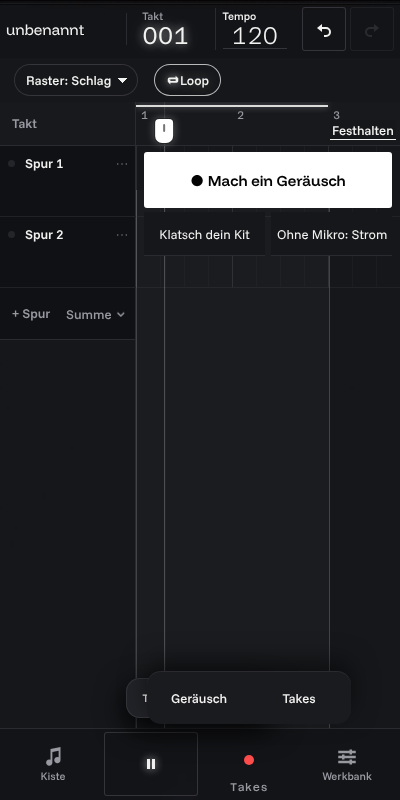
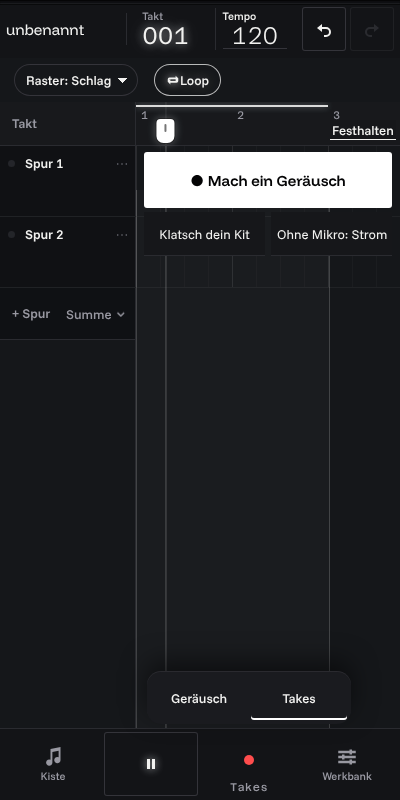
Krachwerk 3b: CD-Auflagen (Takes als Gruppe in der Kiste, Voreinstellung in Weißglut, 3/3 am Clip als Schalter am Handy, Zählen 4·3·2·1 vor dem Sprung)
Claude-Session: https://claude.ai/code/session_011dt3cfyoFbmfWywTqCQhnG

Changed region(s): [[0.39, 0.3125, 0.42, 0.8125], [0.39, 0.1562, 0.45, 0.1875]]

diff --git a/src/ui/library.js b/src/ui/library.js
@@ -176,12 +176,22 @@ export function mountLibrary({ root, library, store, engine, ui, arranger, onDel
     }
   }
 
-  function makeItem(s, cat = s.category) {
+  // Takes eines Clips (Krachwerk 3b): sampleId → { clip, index }; nur in Editionen mit Herkunftsgruppen
+  const takeShut = new Set(); // zugeklappte Take-Gruppen (Standard: offen)
+  function takeMap() {
+    const m = new Map();
+    if (!groupBy) return m;
+    for (const t of store.project.tracks) for (const c of t.clips) if (c.takes?.length > 1) c.takes.forEach((id, index) => { if (!m.has(id)) m.set(id, { clip: c, index }); });
+    return m;
+  }
+  const takeSig = () => JSON.stringify([...takeMap()].map(([id, v]) => [id, v.clip.id, v.index]));
+
+  function makeItem(s, cat = s.category, label = null) {
     const row = el('div', `loop-row cat-${cat}`);
     const item = el('button', 'loop-item');
     item.type = 'button';
     item.dataset.sampleId = s.id;
-    item.append(el('span', 'loop-play'), el('span', 'loop-name', s.name), el('span', 'loop-len', lengthLabel(s, !!groupBy)));
+    item.append(el('span', 'loop-play'), el('span', 'loop-name', label ?? s.name), el('span', 'loop-len', lengthLabel(s, !!groupBy)));
     item.title = describe(s);
     bindItem(item, s);
     const star = el('button', 'loop-fav', '★');
@@ -309,7 +319,42 @@ export function mountLibrary({ root, library, store, engine, ui, arranger, onDel
       if (split) samples.sort((a, b) => order[section(a)] - order[section(b)]);
       let lastSection = null;
       const doneGroups = new Set();
+      const takesOf = takeMap();
       for (const s of samples) {
+        const tk = takesOf.get(s.id);
+        if (tk) {
+          const key = `take:${tk.clip.id}`;
+          if (doneGroups.has(key)) continue;
+          doneGroups.add(key);
+          const kids = tk.clip.takes.map((id) => samples.find((x) => x.id === id)).filter(Boolean);
+          const isOpen = !takeShut.has(key) || forced;
+          const bars = tk.clip.lengthBeats / 4;
+          const len = Number.isInteger(bars) && bars >= 1 ? `${bars} ${bars === 1 ? 'Takt' : 'Takte'}` : `${tk.clip.lengthBeats} Schläge`;
+          const gr = el('div', `loop-row cat-${cat.cat} variant loop-group take-group`);
+          const gb = el('button', 'loop-group-btn');
+          gb.type = 'button';
+          gb.dataset.group = key;
+          gb.setAttribute('aria-expanded', String(isOpen));
+          gb.append(el('span', 'loop-name', `${s.name.replace(/ · Take \d+$/, '')} · ${kids.length} Takes`), el('span', 'loop-len', len), el('span', 'shelf-chevron'));
+          gb.addEventListener('click', () => { if (takeShut.has(key)) takeShut.delete(key); else takeShut.add(key); render(); });
+          gr.append(gb);
+          list.append(gr);
+          if (!isOpen) continue;
+          for (const k of kids) {
+            const made = makeItem(k, cat.cat, `Take ${tk.clip.takes.indexOf(k.id) + 1}`);
+            made.row.classList.add('variant', 'group-kid');
+            made.row.dataset.takeClip = tk.clip.id;
+            made.row.dataset.takeIndex = String(tk.clip.takes.indexOf(k.id));
+            if (!items.has(k.id)) items.set(k.id, []);
+            items.get(k.id).push(made.row);
+            const fav = favs.has(k.id);
+            made.star.classList.toggle('on', fav);
+            made.star.setAttribute('aria-pressed', String(fav));
+            made.star.setAttribute('aria-label', `${k.name} als Favorit ${fav ? 'entfernen' : 'markieren'}`);
+            list.append(made.row);
+          }
+          continue;
+        }
         if (groupBy && s.group && s.parentId) {
           if (doneGroups.has(s.group)) continue;
           doneGroups.add(s.group);
@@ -512,11 +557,16 @@ export function mountLibrary({ root, library, store, engine, ui, arranger, onDel
         item.classList.toggle('armed', ui.armedSampleId === id);
         item.classList.toggle('previewing', engine.preview?.sampleId === id);
         item.setAttribute('aria-pressed', String(ui.armedSampleId === id));
+        if (row.dataset.takeClip) item.classList.toggle('take-on', store.findClip(row.dataset.takeClip)?.clip.take === Number(row.dataset.takeIndex));
       }
     }
   }
   ui.on(sync);
   engine.on(sync);
+  if (groupBy) {
+    let lastTakes = takeSig();
+    store.on(() => { const t = takeSig(); if (t !== lastTakes) { lastTakes = t; render(); } else sync(); });
+  }
   // Kits, Instrumente und die Vorlage ändern sich im Store, nicht in der Bibliothek: nur bei geänderter Liste neu aufbauen
   if (objects) {
     const patClips = () => store.project.tracks.reduce((n, t) => n + t.clips.filter((c) => /^pat-/.test(c.sampleId)).length, 0);

diff --git a/index.html b/index.html
@@ -3167,6 +3167,17 @@
   #app[data-density="calm"] .loop-group-btn .loop-name { flex: 1 1 0; min-width: 0; }
   #app[data-density="calm"] .loop-group-btn[aria-expanded="false"] .shelf-chevron { transform: rotate(-45deg); margin-bottom: 0; }
   #app[data-density="calm"] .loop-row.group-kid { padding-left: 24px; }
+  /* „3/3“ am Take-Clip: rechts oben am Clip; Handy: Schalter für den nächsten Take mit Tippfläche 44 × 44 px */
+  .clip-take { position: absolute; z-index: 2; top: 0; right: 6px; height: 17px; display: flex; align-items: center; pointer-events: none; }
+  .clip-take .clip-tag { margin: 0; font-variant-numeric: tabular-nums; }
+  .clip:has(> .clip-take) .clip-label { padding-right: 40px; }
+  .arr-grid.ch-low .clip-take, .arr-grid.ch-tiny .clip-take { display: none; }
+  @media (max-width: 760px) {
+    #app[data-density="calm"] .clip-take { top: 0; right: 22px; width: 44px; height: 44px; align-items: flex-start; justify-content: flex-end; padding: 1px 4px 0 0; box-sizing: border-box; pointer-events: auto; cursor: pointer; }
+    #app[data-density="calm"] .clip:has(> .clip-take) .clip-label { padding-right: 70px; }
+  }
+  #app[data-density="calm"] .take-group .loop-len { margin-left: auto; }
+  #app[data-density="calm"] .loop-item.take-on { color: var(--amber); box-shadow: inset 2px 0 0 var(--amber); }
   #app[data-density="calm"] .loop-row.group-kid .loop-len { display: none; } /* alle Schnitte sind Einzelklang */
   #app[data-density="calm"] .wb-panel { display: grid; gap: 10px; }
   #app[data-density="calm"] .wb-grund, #app[data-density="calm"] .wb-fine { display: grid; gap: 10px; }
@@ -3339,6 +3350,9 @@
   #app[data-density="calm"] #rec-btn.rec-wait .rec-ctx { color: var(--meter-hot); }
   .rec-ctxrow { position: fixed; z-index: 90; display: flex; gap: 4px; padding: 4px; border-radius: var(--radius-lg); background: var(--sheet-bg); box-shadow: var(--sheet-shadow); }
   .rec-ctxrow[hidden] { display: none; }
+  #app[data-density="calm"] .rec-ctx[data-count] { font-size: var(--fs-15); font-weight: 600; bottom: 4px; letter-spacing: 0; }
+  .rec-ctx-open .hint { display: none; }
+  .rec-ctxrow .rec-ctx-opt.rec-ctx-def { box-shadow: inset 0 -2px 0 var(--amber); }
   .rec-ctxrow .rec-ctx-opt { min-width: 96px; height: 44px; padding: 0 14px; border: 0; border-radius: var(--radius); background: transparent; color: var(--ink); box-shadow: none; cursor: pointer; }
   .rec-ctxrow .rec-ctx-opt:hover:not(:disabled) { background: var(--deck-2); }
   .rec-ctxrow .rec-ctx-opt:disabled { color: var(--muted); opacity: 0.5; cursor: default; }
@@ -3552,7 +3566,6 @@
   .clipbar-btns.with-take { grid-template-columns: repeat(6, minmax(0, 1fr)); }
   .cb-short, .clipbar-btns.with-take .cb-long { display: none; }
   .clipbar-btns.with-take .cb-short { display: inline; }
-  .clip-tag.clip-take { font-variant-numeric: tabular-nums; }
   /* Finger (Tablet): volle 44 px Tippfläche */
   @media (min-width: 761px) and (hover: none) and (pointer: coarse) { .deck .key.rec-more { width: 44px; min-width: 44px; } .rec-wrap { margin-left: 0; } }
   @media (max-width: 760px) {

diff --git a/src/ui/arranger.js b/src/ui/arranger.js
@@ -6,6 +6,7 @@ import { clamp, el, trackPointer } from '../util.js';
 import { AUTO_PARAMS, laneOf } from '../automation.js';
 import { makeKnob } from './knob.js';
 import { touch } from './place.js';
+import { stepTake } from './take-row.js';
 import { lsKey } from '../edition.js';
 import { holdArea, pressHold } from './touch.js';
 import { mountKeyRow } from './key-row.js';
@@ -704,7 +705,13 @@ export function mountArranger({ root, store, engine, library, ui, grainWave = fa
     if (cutName) label.title = sample.name;
     if (sample?.patternId) label.append(el('span', 'clip-tag', 'Pattern'));
     // Take-Clip (2.13): aktiver Take / Anzahl, nur Anzeige
-    if (clip.takes?.length > 1) { const t = el('span', 'clip-tag clip-take', `${clip.take + 1}/${clip.takes.length}`); t.title = `Take ${clip.take + 1} von ${clip.takes.length} (Alt+↑/↓)`; label.append(t); }
+    // Das Kennzeichen sitzt am Clip, nicht im Namen (Handy: Schalter mit 44-px-Tippfläche, siehe CSS)
+    let takeTag = null;
+    if (clip.takes?.length > 1) {
+      takeTag = el('span', 'clip-take');
+      takeTag.append(el('span', 'clip-tag', `${clip.take + 1}/${clip.takes.length}`));
+      takeTag.title = `Take ${clip.take + 1} von ${clip.takes.length} (Alt+↑/↓)`;
+    }
     if (clipGain(clip) > 1.001) label.append(el('span', 'clip-tag', formatDb(clipGain(clip))));
     // Geschwindigkeit wie im Inspektor (100 % = Original); „wie Tonband“ mit Zusatz
     if (clip.stretch && Math.abs(clip.stretch - 1) > 1e-6) {
@@ -730,6 +737,7 @@ export function mountArranger({ root, store, engine, library, ui, grainWave = fa
     const curveOut = el('div', 'clip-grip clip-curve clip-curve-out');
     curveOut.title = 'Kurve des Fade-Outs: hoch = lange laut, runter = früh leise; Doppelklick = linear';
     node.append(canvas, label, trim, handle, curveIn, curveOut, fadeIn, fadeOut, vol);
+    if (takeTag) node.append(takeTag);
     return { node, canvas, sample };
   }
 
@@ -1167,6 +1175,19 @@ export function mountArranger({ root, store, engine, library, ui, grainWave = fa
         if (created.length) select(created[0]);
         done.onDone?.(created.length > 0);
       } else done.onDone?.(false);
+      return;
+    }
+    // Handy: das Kennzeichen „3/3“ am Take-Clip ist der Schalter für den nächsten Take (Tippfläche 44 px, siehe CSS)
+    if (clip && narrow.matches && t.closest('.clip-take')) {
+      e.preventDefault();
+      e.stopPropagation();
+      const cid = clip.dataset.clipId;
+      const x0 = e.clientX, y0 = e.clientY;
+      trackPointer(e, () => {}, (m) => {
+        if (Math.hypot(m.clientX - x0, m.clientY - y0) > 10) return;
+        if (!ui.selectedIds().includes(cid)) select(cid);
+        stepTake(store, library, cid, 1);
+      });
       return;
     }
     if (clip) {

diff --git a/src/ui/rec-context.js b/src/ui/rec-context.js
@@ -34,21 +34,41 @@ export function mountRecContext({ btn, recorder, engine, store, ui, record }) {
 
   const loopOn = () => { const l = store.project.loop; return l.on && l.endBeat > l.startBeat; };
 
+  // Zählen im letzten Takt vor dem ersten Loop-Sprung: „4 · 3 · 2 · 1“ aus der hörbaren Position (kein Ton, nichts geplant)
+  let raf = 0;
+  function countdown() {
+    const l = store.project.loop;
+    if (!engine.playing || !l.on) return null;
+    const left = l.endBeat - engine.heardBeat();
+    return left > 0 && left <= 4 ? String(Math.ceil(left - 1e-9)) : null;
+  }
+  const tick = () => { if (!raf) raf = requestAnimationFrame(() => { raf = 0; if (recorder.waiting) sync(); }); };
+
   function sync() {
     const waiting = recorder.waiting;
     const busy = recorder.state !== 'idle';
     const ctx = record.context();
     const t = waiting ? 'wartet …' : ctx === 'takes' ? 'Takes' : 'Geräusch';
-    if (text.textContent !== t) {
-      text.textContent = t;
+    const shown = waiting ? countdown() ?? t : t;
+    if (text.textContent !== shown) text.textContent = shown;
+    text.toggleAttribute('data-count', waiting && shown !== t);
+    if (btn.dataset.recLabel !== t) {
+      btn.dataset.recLabel = t;
       btn.setAttribute('aria-label', `Aufnahme – ${t}`);
     }
+    if (waiting) tick(); // die Zahl wechselt zwischen den Ereignissen: je Bild nachsehen
     text.dataset.ctx = ctx;
     btn.classList.toggle('rec-wait', waiting);
     btn.setAttribute('aria-haspopup', 'true');
     const lo = loopOn();
     bTakes.disabled = !lo;
     bTakes.title = lo ? 'Jeder Durchgang im Loop wird ein Take' : 'Dafür den Loop-Bereich einschalten';
+    // Voreinstellung: was ● ohne Wahl nähme, trägt die Linie
+    const preset = ctx === 'takes' && lo ? bTakes : bSound;
+    bTakes.classList.toggle('rec-ctx-def', preset === bTakes);
+    bSound.classList.toggle('rec-ctx-def', preset === bSound);
+    bTakes.setAttribute('aria-description', preset === bTakes ? 'Das nimmt ● ohne Wahl' : '');
+    bSound.setAttribute('aria-description', preset === bSound ? 'Das nimmt ● ohne Wahl' : '');
     if (busy && !row.hidden) close(false);
   }
 
@@ -68,12 +88,14 @@ export function mountRecContext({ btn, recorder, engine, store, ui, record }) {
     if (recorder.state !== 'idle') return;
     sync();
     row.hidden = false;
+    app.classList.add('rec-ctx-open'); // der Einblender weicht, solange die Zeile offen ist
     place();
     (byKey ? (bTakes.disabled ? bSound : bTakes) : null)?.focus();
   }
   function close(refocus = true) {
     if (row.hidden) return;
     row.hidden = true;
+    app.classList.remove('rec-ctx-open');
     if (refocus && row.contains(document.activeElement)) btn.focus();
   }
 

diff --git a/src/ui/clip-float.js b/src/ui/clip-float.js
@@ -53,7 +53,7 @@ export function mountClipFloat({ store, ui, tools, library, onFreeze = null }) {
     if (fzBtn) { fzBtn.hidden = !many; dupBtn.hidden = many; }
     wbBtn.hidden = !narrow.matches;
     const tc = store.findClip(id)?.clip;
-    takeBtn.hidden = many || !tc?.takes || !library;
+    takeBtn.hidden = many || !tc?.takes || !library || narrow.matches; // Handy: Schalter ist das „3/3“ am Clip
     if (!takeBtn.hidden) takeBtn.textContent = `Take ${tc.take + 1}/${tc.takes.length}`;
     const w = wrap.getBoundingClientRect();
     const c = node.getBoundingClientRect();
@@ -67,8 +67,7 @@ export function mountClipFloat({ store, ui, tools, library, onFreeze = null }) {
     if (outside || y + bh > w.bottom - 2) { bar.hidden = true; return; }
     // Nur im Spurbereich: nie links der Kante der Spurköpfe; passt es nicht, bündig am rechten Rand
     const minX = Math.max(w.left + 4, (scroll.querySelector('.corner')?.getBoundingClientRect().right ?? 0) + 2);
-    // Passt sie rechts der Spurköpfe nicht hin (Handy, mit Take-Schalter), darf sie über die Köpfe ragen
-    const x = bw > w.right - minX - 4 ? w.left + 4 : Math.max(minX, Math.min(c.left, w.right - bw - 4));
+    const x = Math.max(minX, Math.min(c.left, w.right - bw - 4));
     bar.style.left = `${Math.round(x - w.left)}px`;
     bar.style.top = `${Math.round(y - w.top)}px`;
   }

diff --git a/src/tips-make.js b/src/tips-make.js
@@ -12,7 +12,7 @@ function kitOpen(store, ui) {
   return !ui.selectedTrackId && !!kitOf(store.project, ui.benchSoundId);
 }
 
-export function makeTips({ store, ui, library, engine }) {
+export function makeTips({ store, ui, library, engine, recorder }) {
   const clips = () => store.project.tracks.flatMap((t) => t.clips);
   // Durchgänge des Loops: Sprünge der hörbaren Position zurück zählen (nur zum Zählen, nichts wird geplant)
   let passes = 0;
@@ -32,6 +32,7 @@ export function makeTips({ store, ui, library, engine }) {
       return !!s && !/^pat-/.test(s.id) && (s.orig?.duration ?? s.duration ?? 0) >= 2;
     } },
     { id: 'm-kit', text: 'Leeres Pad antippen und ins Mikro machen.', when: () => kitOpen(store, ui) },
+    { id: 'm-rec-long', text: 'Lang drücken: Geräusch statt Takes.', when: () => !!recorder && recorder.state === 'recording' && recorder.atWrap },
     { id: 'm-loop', text: '● im Loop nimmt Takes auf, lang drücken für ein einzelnes Geräusch.', when: () => passes >= 3 },
     { id: 'm-clips', text: 'Festhalten am Loop-Bereich macht aus allem eine Schleife.', when: () => clips().length >= 4 },
     { id: 'm-backup', text: 'Song → Projekt → Alle Sounds sichern.', when: () => own(library).length >= 10 },

diff --git a/src/main.js b/src/main.js
@@ -844,7 +844,7 @@ async function boot() {
     try { on = localStorage.getItem(lsKey('loopwerk.harmony')) === '1'; } catch { /* Standard */ }
     if (on) set(true);
   }
-  const tips = EDITION.tips ? mountTips({ ui, store, list: makeTips({ store, ui, library, engine }), poll: 1000 })
+  const tips = EDITION.tips ? mountTips({ ui, store, list: makeTips({ store, ui, library, engine, recorder }), poll: 1000 })
     : EDITION.surfaces.tips === false ? null : mountTips({ ui, store });
   // Startkarte im leeren Song (Krachwerk): ● Geräusch, Klatsch dein Kit, Strom ohne Mikrofon
   async function stromBeat() {
